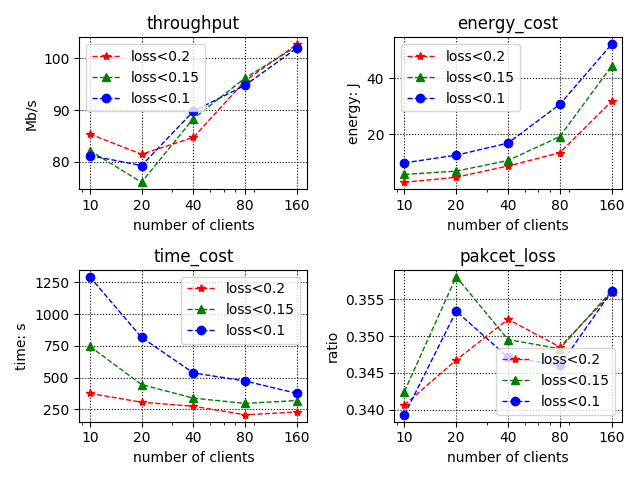
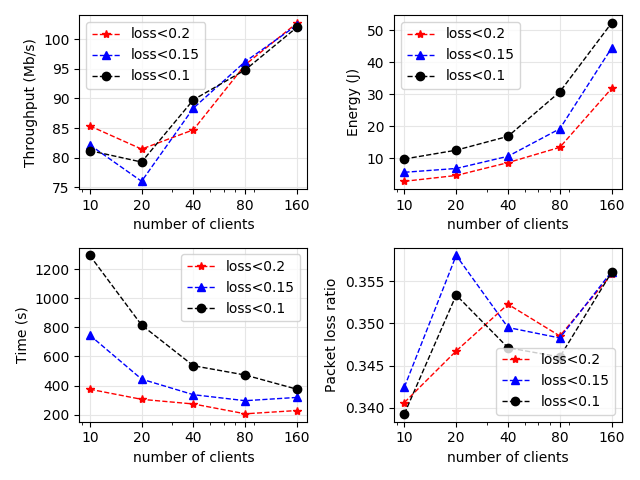
uopdate demo results

diff --git a/Simulator/toy_examples/results/process_results.py b/Simulator/toy_examples/results/process_results.py
@@ -39,26 +39,26 @@ def analyze_one_file(file_path, loss_threshold, max_tolerance):
 
 def myplot(x, y, title, xlabel, ylabel, lengend):
     plt.semilogx(x, y[0], 'r', linestyle="--", marker="*", linewidth=1.0)
-    plt.semilogx(x, y[1], 'g', linestyle="--", marker="^", linewidth=1.0)
-    plt.semilogx(x, y[2], 'b', linestyle="--", marker="o", linewidth=1.0)
+    plt.semilogx(x, y[1], 'b', linestyle="--", marker="^", linewidth=1.0)
+    plt.semilogx(x, y[2], 'k', linestyle="--", marker="o", linewidth=1.0)
     plt.xticks(x, [str(xx) for xx in x])
-    plt.title(title)
+    # plt.title(title)
     plt.xlabel(xlabel)
     plt.ylabel(ylabel)
     plt.legend(lengend)
-    plt.grid(color="k", linestyle=":")
+    plt.grid(color="0.9", linestyle="-")
 
 
 def mymultiplot(fig_id, x, data_dict, xlabel, lengend):
     plt.figure(fig_id)
     plt.subplot(221)
-    myplot(x, data_dict['throughput'], 'throughput', xlabel, 'Mb/s', lengend)
+    myplot(x, data_dict['throughput'], 'throughput', xlabel, 'Throughput (Mb/s)', lengend)
     plt.subplot(222)
-    myplot(x, data_dict['energy_cost'], 'energy_cost', xlabel, 'energy: J', lengend)
+    myplot(x, data_dict['energy_cost'], 'energy_cost', xlabel, 'Energy (J)', lengend)
     plt.subplot(223)
-    myplot(x, data_dict['time_cost'], 'time_cost', xlabel, 'time: s', lengend)
+    myplot(x, data_dict['time_cost'], 'time_cost', xlabel, 'Time (s)', lengend)
     plt.subplot(224)
-    myplot(x, data_dict['pakcet_loss'], 'pakcet_loss', xlabel, 'ratio', lengend)
+    myplot(x, data_dict['pakcet_loss'], 'pakcet_loss', xlabel, 'Packet loss ratio', lengend)
     # plt.title(title)
     plt.show()
 
